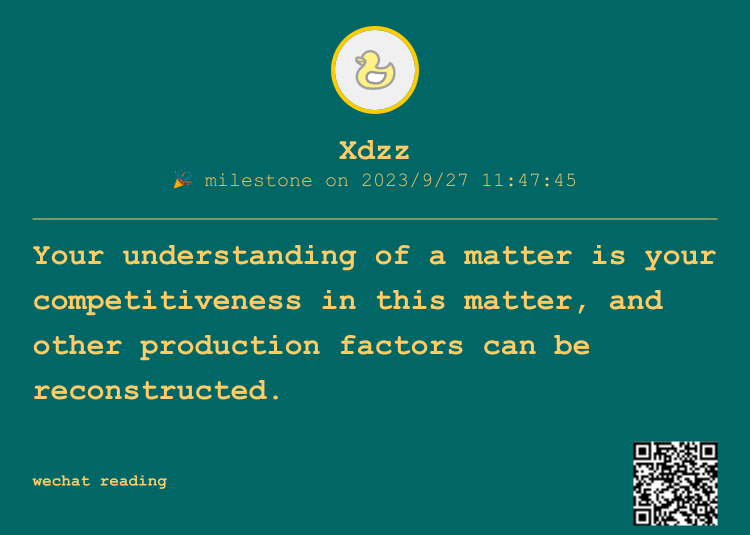
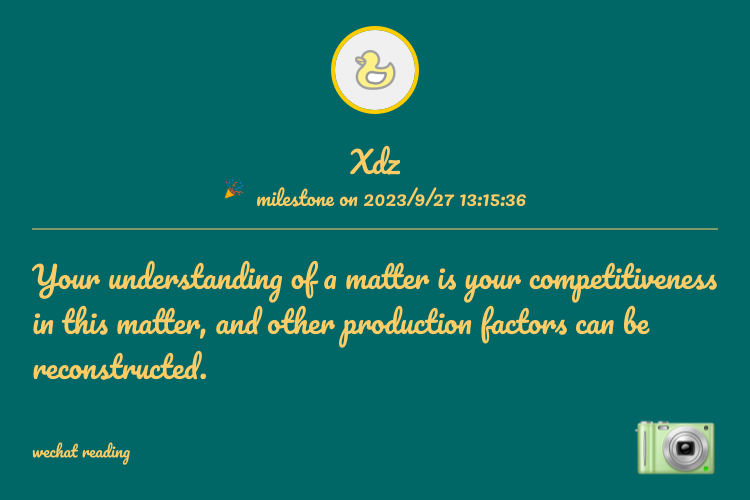
feat(custom font family): support user custom font family

diff --git a/src/draw.js b/src/draw.js
@@ -1,5 +1,5 @@
 const { createCanvas, registerFont, loadImage } = require('canvas')
-const { barWatcher, formatDateTime, loadImage: loadCanvasImage } = require('./util')
+const { barWatcher, formatDateTime } = require('./util')
 const HeaderCpu = require('./headerCpu')
 const FooterCpu = require('./footerCpu')
 const path = require('path')
@@ -10,6 +10,7 @@ class Drawer {
     const {
       width,
       fontFamilys,
+      customFontFamilyPath,
       color,
       backgroundColor,
       fontSize,
@@ -24,6 +25,12 @@ class Drawer {
       footer,
       from
     } = anyPhotoConfig.canvasSetting
+    if (customFontFamilyPath) {
+      registerFont(customFontFamilyPath, {
+        family: 'Custom'
+      })
+    }
+
     this.anyPhotoConfig = anyPhotoConfig
     this.width = width
     this.fontWeight = fontWeight
@@ -101,7 +108,7 @@ class Drawer {
     if (showFrom) {
       ctx.save()
       ctx.fillStyle = fromFontColor
-      ctx.font = `${fromFontWeight} ${fromFontSize}px ${this.fontFamilys[fromFontFamilyIndex]}`
+      ctx.font = `${fromFontWeight} ${fromFontSize}px ${this.fontFamilys[fromFontFamilyIndex]},${this.fontFamilys[4]},sans-serif`
       ctx.textBaseline = this.textBaseline
       ctx.textAlign = this.textAlign
       ctx.fillText(name, x, this.headerHeight + this.contentHeight - fromFontSize - y - this.compareHeight)
@@ -128,7 +135,7 @@ class Drawer {
     const { ctx } = this
     ctx.save()
     ctx.fillStyle = headerAuthorFontColor
-    ctx.font = `${headerAuthorFontWeight} ${headerAuthorFontSize}px ${this.fontFamilys[headAuthorFontFamilyIndex]}`
+    ctx.font = `${headerAuthorFontWeight} ${headerAuthorFontSize}px ${this.fontFamilys[headAuthorFontFamilyIndex]},${this.fontFamilys[4]},sans-serif`
     ctx.textBaseline = this.textBaseline
     ctx.textAlign = this.textAlign
     const authorWidth = ctx.measureText(author).width
@@ -137,8 +144,8 @@ class Drawer {
   }
 
   get getTimeWithPrefix() {
-    const { headerTime, headerTimeFormat, headerTimePrefix } = this.header
-    const formatDateString = formatDateTime(headerTime, headerTimeFormat)
+    const { headerTimeFormat, headerTimePrefix } = this.header
+    const formatDateString = formatDateTime(new Date(), headerTimeFormat)
     return `${headerTimePrefix} ${formatDateString}`
   }
 
@@ -149,7 +156,7 @@ class Drawer {
     const { ctx } = this
     ctx.save()
     ctx.fillStyle = headerTimeFontColor
-    ctx.font = `${headerTimeFontWeight} ${headerTimeFontSize}px ${this.fontFamilys[headerTimeFontFamilyIndex]}`
+    ctx.font = `${headerTimeFontWeight} ${headerTimeFontSize}px ${this.fontFamilys[headerTimeFontFamilyIndex]},${this.fontFamilys[4]},sans-serif`
     ctx.textBaseline = this.textBaseline
     ctx.textAlign = this.textAlign
     const timeWithPrefixWidth = ctx.measureText(prefixTimeString).width
@@ -163,7 +170,7 @@ class Drawer {
     const { ctx } = this
     ctx.save()
     ctx.fillStyle = sloganFontColor
-    ctx.font = `${sloganFontWeight} ${sloganFontSize}px ${this.fontFamilys[sloganFontFamilyIndex]}`
+    ctx.font = `${sloganFontWeight} ${sloganFontSize}px ${this.fontFamilys[sloganFontFamilyIndex]},${this.fontFamilys[4]},sans-serif`
     ctx.textBaseline = this.textBaseline
     ctx.textAlign = this.textAlign
     const timeWithPrefixWidth = ctx.measureText(slogan).width
@@ -175,7 +182,9 @@ class Drawer {
     const { ctx } = this
     ctx.beginPath()
     ctx.fillStyle = this.color
-    ctx.font = `${this.fontWeight} ${this.fontSize}px ${this.fontFamilys[this.fontFamilyIndex]}`
+    ctx.font = `${this.fontWeight} ${this.fontSize}px ${this.fontFamilys[this.fontFamilyIndex]},${
+      this.fontFamilys[4]
+    },sans-serif`
     ctx.textBaseline = this.textBaseline
     ctx.textAlign = this.textAlign
     let words = this.content.split(' ')
@@ -207,7 +216,9 @@ class Drawer {
     const { ctx } = this
     ctx.beginPath()
     ctx.fillStyle = this.color
-    ctx.font = `${this.fontWeight} ${this.fontSize}px ${this.fontFamilys[this.fontFamilyIndex]}`
+    ctx.font = `${this.fontWeight} ${this.fontSize}px ${this.fontFamilys[this.fontFamilyIndex]},${
+      this.fontFamilys[4]
+    },sans-serif`
     ctx.textBaseline = this.textBaseline
     ctx.textAlign = this.textAlign
     let words = this.content.split(' ')
@@ -306,7 +317,7 @@ class Drawer {
         ctx.drawImage(clock, timeIconStartPointX, timeIconStartPointY, timeIconWidth, timeIconHeight)
       }
       ctx.fillStyle = headerTimeFontColor
-      ctx.font = `${headerTimeFontWeight} ${headerTimeFontSize}px ${this.fontFamilys[headerTimeFontFamilyIndex]}`
+      ctx.font = `${headerTimeFontWeight} ${headerTimeFontSize}px ${this.fontFamilys[headerTimeFontFamilyIndex]},${this.fontFamilys[4]},sans-serif`
       ctx.textBaseline = this.textBaseline
       ctx.textAlign = this.textAlign
       ctx.fillText(this.getTimeWithPrefix, timeStartPointX, timeStartPointY)
@@ -332,7 +343,7 @@ class Drawer {
       const { ctx, author } = this
       ctx.beginPath()
       ctx.fillStyle = headerAuthorFontColor
-      ctx.font = `${headerAuthorFontWeight} ${headerAuthorFontSize}px ${this.fontFamilys[headAuthorFontFamilyIndex]}`
+      ctx.font = `${headerAuthorFontWeight} ${headerAuthorFontSize}px ${this.fontFamilys[headAuthorFontFamilyIndex]},${this.fontFamilys[4]},sans-serif`
       ctx.textBaseline = this.textBaseline
       ctx.textAlign = this.textAlign
       ctx.fillText(author, authorStartPointX, authorStartPointY)
@@ -525,7 +536,7 @@ class Drawer {
     ctx.save()
     ctx.beginPath()
     ctx.fillStyle = sloganFontColor
-    ctx.font = `${sloganFontWeight} ${sloganFontSize}px ${this.fontFamilys[sloganFontFamilyIndex]}`
+    ctx.font = `${sloganFontWeight} ${sloganFontSize}px ${this.fontFamilys[sloganFontFamilyIndex]},${this.fontFamilys[4]},sans-serif`
     ctx.textBaseline = this.textBaseline
     ctx.textAlign = this.textAlign
     ctx.fillText(slogan, sloganStartPointX, sloganStartPointY)

diff --git a/src/themes.js b/src/themes.js
@@ -1,7 +1,8 @@
 module.exports = {
   theme1: {
     width: 750,
-    fontFamilys: ['Arial', 'Times New Roman', 'Verdana', 'Tahoma', 'Courier New', 'Helvetica'],
+    fontFamilys: ['Arial', 'Times New Roman', 'Verdana', 'Tahoma', 'Courier New', 'Helvetica', 'Custom'],
+    customFontFamilyPath: '',
     backgroundColor: '#006666',
     color: '#FFCC66',
     fontWeight: 'bold',
@@ -9,7 +10,7 @@ module.exports = {
     textAlign: 'start',
     fontSize: 30,
     lineGap: 15,
-    fontFamilyIndex: 4,
+    fontFamilyIndex: 6,
     x: 20,
     y: 20,
 
@@ -28,7 +29,7 @@ module.exports = {
       headerAuthorFontSize: 30,
       headerAuthorFontColor: '#FFCC66',
       headerAuthorFontWeight: 'bold',
-      headAuthorFontFamilyIndex: 4,
+      headAuthorFontFamilyIndex: 6,
       headerAuthorMarginBottom: 5,
 
       // createTime
@@ -36,8 +37,7 @@ module.exports = {
       headerTimeFontSize: 20,
       headerTimeFontColor: '#FFCC66',
       headerTimeFontWeight: 'medium',
-      headerTimeFontFamilyIndex: 4,
-      headerTime: new Date(),
+      headerTimeFontFamilyIndex: 6,
       headerTimeFormat: 'YYYY/MM/DD HH:mm:ss',
       headerTimePrefix: 'milestone on',
       headerTimeIcon: 'https://pic.sopili.net/pub/emoji/noto-emoji/png/128/emoji_u1f389.png',
@@ -58,7 +58,7 @@ module.exports = {
       sloganFontSize: 16,
       sloganFontColor: '#FFCC66',
       sloganFontWeight: 'bold',
-      sloganFontFamilyIndex: 4,
+      sloganFontFamilyIndex: 6,
       qrCodeSrc: '/Users/weirui05/Desktop/WechatIMG374.jpg',
       qrCodePaddingY: 10
     },
@@ -68,13 +68,14 @@ module.exports = {
       fromFontSize: 16,
       fromFontColor: '#FFCC66',
       fromFontWeight: 'bold',
-      fromFontFamilyIndex: 4,
+      fromFontFamilyIndex: 6,
       fromMarginTop: 30
     }
   },
   theme2: {
     width: 750,
-    fontFamilys: ['Arial', 'Times New Roman', 'Verdana', 'Tahoma', 'Courier New', 'Helvetica'],
+    fontFamilys: ['Arial', 'Times New Roman', 'Verdana', 'Tahoma', 'Courier New', 'Helvetica', 'Custom'],
+    customFontFamilyPath: '',
     backgroundColor: '#006666',
     color: '#FFCC66',
     fontWeight: 'bold',
@@ -82,7 +83,7 @@ module.exports = {
     textAlign: 'start',
     fontSize: 30,
     lineGap: 15,
-    fontFamilyIndex: 4,
+    fontFamilyIndex: 6,
     x: 20,
     y: 20,
 
@@ -92,7 +93,7 @@ module.exports = {
       headerPaddingBottom: 30,
       // avatar
       headerAvatarSize: 80,
-      headerAvatarBorderWidth: 4,
+      headerAvatarBorderWidth: 6,
       headerAvatarBorderColor: '#FFCC00',
       headerAvatarMarginBottom: 20,
 
@@ -101,7 +102,7 @@ module.exports = {
       headerAuthorFontSize: 30,
       headerAuthorFontColor: '#FFCC66',
       headerAuthorFontWeight: 'bold',
-      headAuthorFontFamilyIndex: 4,
+      headAuthorFontFamilyIndex: 6,
       headerAuthorMarginBottom: 5,
 
       // createTime
@@ -109,8 +110,7 @@ module.exports = {
       headerTimeFontSize: 20,
       headerTimeFontColor: '#FFCC66',
       headerTimeFontWeight: 'medium',
-      headerTimeFontFamilyIndex: 4,
-      headerTime: new Date(),
+      headerTimeFontFamilyIndex: 6,
       headerTimeFormat: 'YYYY/MM/DD HH:mm:ss',
       headerTimePrefix: 'milestone on',
       headerTimeIcon: 'https://pic.sopili.net/pub/emoji/noto-emoji/png/128/emoji_u1f389.png',
@@ -131,7 +131,7 @@ module.exports = {
       sloganFontSize: 16,
       sloganFontColor: '#FFCC66',
       sloganFontWeight: 'bold',
-      sloganFontFamilyIndex: 4,
+      sloganFontFamilyIndex: 6,
       qrCodeSrc: '/Users/weirui05/Desktop/WechatIMG374.jpg',
       qrCodePaddingY: 10
     },
@@ -141,7 +141,7 @@ module.exports = {
       fromFontSize: 16,
       fromFontColor: '#FFCC66',
       fromFontWeight: 'bold',
-      fromFontFamilyIndex: 4,
+      fromFontFamilyIndex: 6,
       fromMarginTop: 30
     }
   }

diff --git a/anyphoto.config.js b/anyphoto.config.js
@@ -1,0 +1,74 @@
+const anyPhotoConfig = {
+  defaultOutput: 'anyphoto',
+  defaultAvatar: 'https://m0-file2.bybutter.com/head-image/21e8a53c1e9d514eff1099f43465721b.jpg',
+  defaultAuthor: 'AnyPhoto',
+  canvasSetting: {
+    width: 750,
+    fontFamilys: ['Arial', 'Times New Roman', 'Verdana', 'Tahoma', 'Courier New', 'Helvetica', 'Custom'],
+    customFontFamilyPath: '/Users/weirui05/Desktop/Pacifico-Regular.ttf',
+    backgroundColor: '#006666',
+    color: '#FFCC66',
+    fontWeight: 'bold',
+    textBaseline: 'top',
+    textAlign: 'start',
+    fontSize: 30,
+    lineGap: 15,
+    fontFamilyIndex: 6,
+    x: 20,
+    y: 20,
+    header: {
+      headerAlign: 'center',
+      headerPaddingTop: 30,
+      headerPaddingBottom: 30,
+      headerAvatarSize: 80,
+      headerAvatarBorderWidth: 4,
+      headerAvatarBorderColor: '#FFCC00',
+      headerAvatarMarginBottom: 20,
+      showHeaderAuthor: true,
+      headerAuthorFontSize: 30,
+      headerAuthorFontColor: '#FFCC66',
+      headerAuthorFontWeight: 'bold',
+      headAuthorFontFamilyIndex: 6,
+      headerAuthorMarginBottom: 15,
+      showHeaderTime: true,
+      headerTimeFontSize: 20,
+      headerTimeFontColor: '#FFCC66',
+      headerTimeFontWeight: 'medium',
+      headerTimeFontFamilyIndex: 6,
+      headerTimeFormat: 'YYYY/MM/DD HH:mm:ss',
+      headerTimePrefix: 'milestone on',
+      headerTimeIcon: 'https://pic.sopili.net/pub/emoji/noto-emoji/png/128/emoji_u1f389.png',
+      headerTimeIconGap: 12,
+      divider: {
+        size: 'contentWidth',
+        color: '#FFCC66'
+      }
+    },
+    footer: {
+      //   divider: {
+      //     size: 'contentWidth',
+      //     color: '#FFCC66'
+      //   },
+      paddingY: 40,
+      slogan: 'wechat reading',
+      sloganPosition: 'left',
+      sloganFontSize: 16,
+      sloganFontColor: '#FFCC66',
+      sloganFontWeight: 'bold',
+      sloganFontFamilyIndex: 6,
+      qrCodeSrc:
+        'https://butter-file.oss-cn-beijing.aliyuncs.com/uploaded/toaster/3daf654b-84ab-4655-aa90-6912f88ca80f.png',
+      qrCodePaddingY: 10
+    },
+    from: {
+      showFrom: false,
+      name: '/react and vue',
+      fromFontSize: 16,
+      fromFontColor: '#FFCC66',
+      fromFontWeight: 'bold',
+      fromFontFamilyIndex: 6,
+      fromMarginTop: 30
+    }
+  }
+}
+module.exports = anyPhotoConfig

diff --git a/src/util.js b/src/util.js
@@ -59,31 +59,11 @@ const barWatcher = new cliProgress.SingleBar({
   hideCursor: true
 })
 
-const loadImage = (src, attrs = {}) => {
-  const image = new Image()
-  return new Promise(function (resolve, reject) {
-    image.onload = function () {
-      resolve(image)
-    }
-
-    image.onerror = function (err) {
-      reject(err.message)
-    }
-    // // 设置图片的属性
-    // for (const attr in attrs) {
-    //   image.setAttribute(attr, attrs[attr])
-    // }
-
-    image.src = src
-  })
-}
-
 module.exports = {
   generateOra,
   sleep,
   color,
   colorTip,
   barWatcher,
-  formatDateTime,
-  loadImage
+  formatDateTime
 }

diff --git a/src/cmd/generate.js b/src/cmd/generate.js
@@ -64,7 +64,7 @@ const getAnyPhotoConfig = ({ options }) => {
       author,
       output
     }),
-    canvasSetting: getUserAnyPhotoConfigByKey('canvasSetting') || defaultCanvasSetting
+    canvasSetting: getUserAnyPhotoConfigByKey({ defaultKey: 'canvasSetting' }) || defaultCanvasSetting
   }
 }
 
